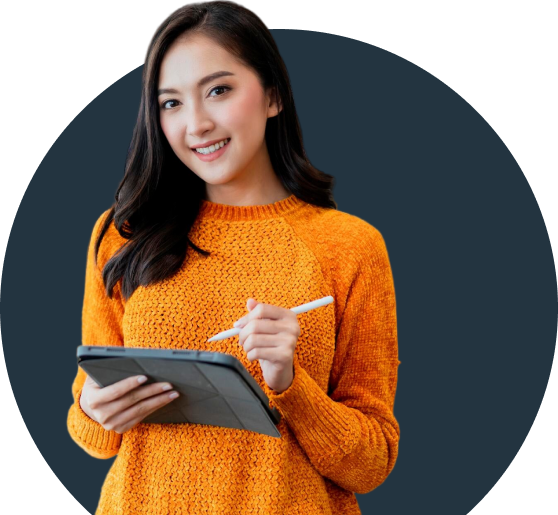
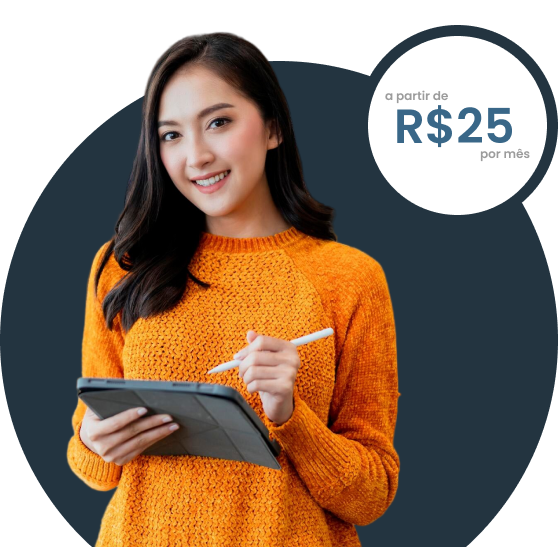
Vai

diff --git a/src/pages/index.tsx b/src/pages/index.tsx
@@ -12,11 +12,16 @@ import { BenefitItem } from "@/components/BenefitItem";
 import { LuMoveRight } from "react-icons/lu";
 import { FiPhone } from "react-icons/fi";
 import { ContactItem } from "@/components/ContactItem";
-import { MdOutlineEmail } from "react-icons/md";
+import { MdAttachMoney, MdOutlineEmail } from "react-icons/md";
 import { Subtitle } from "@/components/Subtitle";
 import { FaRegUser } from "react-icons/fa";
 import { FiTrendingUp } from "react-icons/fi";
 import { PiHandCoins  } from "react-icons/pi";
+import { TbShoppingCart } from "react-icons/tb";
+import { BsBoxSeam, BsGraphUpArrow, BsTags } from "react-icons/bs";
+import { VscTools } from "react-icons/vsc";
+import { GoGear, GoStack } from "react-icons/go";
+import Link from "next/link";
 
 const poppins = Poppins({
   subsets: ['latin'],
@@ -61,56 +66,60 @@ export default function Home() {
         <MainWrapper>
           <SideImage
             title="Servidores ultra-seguros e confiáveis"
-            description="Garantindo a Estabilidade e Proteção do seu Negócio."
+            description="Com servidores ultra-seguros e confiáveis na nuvem, fornecidos pela AWS Amazon, nossa plataforma white label de software SaaS oferece uma infraestrutura sólida para seu negócio. A segurança de nossos servidores protege os dados com padrões avançados, fornecendo criptografia, backups regulares e monitoramento constante. Isso garante a integridade e disponibilidade contínua dos seus serviços, mantendo a confiança de seus clientes. Ao adotar nossa solução, você obtém a tranquilidade necessária para se concentrar no crescimento, enquanto nós lidamos com a segurança e a confiabilidade."
             imgName="bg-img-database"
             alt="" />
           <SideImage
             title="Amplamente aprovado por nossos clientes"
             imgName="bg-img-clientes"
-            description="Mais de 10 mil empresas confiam no ESAAS para impulsionar seu sucesso!"
+            description="O eSaaS é um braço da VendaERP, empresa pioneira no fornecimento de software SaaS no Brasil. Com atuação no mercado desde 2017, a VendaERP construiu uma sólida reputação, atendendo mais de 2.000 parceiros ativos. Nosso compromisso com a excelência reflete-se na ótima avaliação no Reclame Aqui, reforçando nossa dedicação à satisfação e segurança dos clientes. Ao escolher nossa plataforma, você se beneficia de uma infraestrutura confiável e uma equipe experiente, garantindo a tranquilidade necessária para impulsionar seu sucesso. "
             alt=""
             invert={true} />
           <SideImage
             title="Sua marca, sua identidade"
-            description="Tenha um sistema de gestão completo com a identidade da sua marca, sem se preocupar com o desenvolvimento ou manutenção!"
+            description="Ao vender software SaaS com a sua marca, você fortalece a presença e o reconhecimento de sua empresa no mercado. Oferecer soluções white label permite que você personalize completamente a experiência, adaptando cores, logotipo e mensagens ao perfil do seu público. Essa flexibilidade proporciona um diferencial competitivo, promovendo um relacionamento mais próximo e confiável com seus clientes. Além disso, a identidade própria aumenta o valor percebido, gerando maior fidelidade e facilitando a expansão da sua base de clientes. Com nossa solução, você pode construir um negócio único e altamente reconhecível."
             imgName="bg-img-erp"
             alt="" />
         </MainWrapper>
 
-        <div id="funcionalidades" className="w-full h-[800px] bg-main-secondary-800 pt-20">
+        <div id="funcionalidades" className="w-full h-[1100px] bg-main-secondary-800 pt-20">
           <MainWrapper>
             <Subtitle color="text-white" text="Conheça noossas principais funcionalidades" />
             <div className="w-full flex justify-center">
-              <div className="flex flex-col max-w-[700px] w-full gap-2">
-                <Card2 title="Cadastros Básicos" />
-                <Card2 title="Compras - Notas de Entrada, Cotações e Ordens de Compras" />
-                <Card2 title="Estoque - Cadastro de Produtos/Serviços, Movimentações e Outros" />
-                <Card2 title="Financeiro Avançado" />
-                <Card2 title="Financeiro Básico" />
-                <Card2 title="Vendas - Pedidos/Orçamentos e Ordens de Serviço" />
-                <Card2 title="PDV - Frente de Caixa" />
-                <Card2 title="Nota Fiscal Eletrônica" />
+              <div className="grid grid-cols-2 gap-5 max-w-[800px] w-full">
+                <Card2 title="Fiscal" icon={<BsTags />} description="Emissão de NF-e, NFS-e, MDF-e, NFC-e, CF-e SAT. E também temos SPED Fiscal!" />
+                <Card2 title="Vendas" icon={<BsGraphUpArrow />} description="Orçamentos e pedidos, marketplaces, PDV, Loja Online, Força de vendas." />
+                <Card2 title="Compras" icon={<TbShoppingCart />} description="Ordem de compra, nota de entrada, alerta de estoque, leilão fornecedores."/>
+                <Card2 title="Estoque" icon={<BsBoxSeam />} description="Gestão de múltiplos depósitos, tabelas de preço, movimentações, catálogo."/>
+                <Card2 title="Financeiro" icon={<MdAttachMoney  />} description="Lançamentos financeiros, cobranças integradas, remessas, boletos, bancos!"/>
+                <Card2 title="Produção" icon={<GoGear />} description="Ordens de produção, estoque, insumos e matéria-prima, gestão de qualidade."/>
+                <Card2 title="Logística" icon={<VscTools />} description="Movimentações de estoque, SIGEP Web, relatórios, veículos, delivery integrado." />
+                <Card2 title="Serviços" icon={<GoStack />} description="Emissão de NFS-e, gestão de contratos, ordens de serviços, técnicos, frotas."/>
               </div>
             </div>
-
           </MainWrapper>
         </div>
 
-        <div id="preco" className="w-full h-[900px] bg-main-primary-500 pt-20">
+        <div id="preco" className="w-full h-[1000px] bg-gradient-price pt-20">
           <MainWrapper>
             <Subtitle color="text-white" text="Uma solução que cabe no seu bolso" />
             <div className="w-full flex justify-center ">
-              <div className="shadow-card rounded-xl px-8 py-10 max-w-[600px] w-full bg-white">
+              <div className="shadow-card rounded-3xl px-8 py-10 max-w-[600px] w-full bg-white">
                 <h3 className="text-4xl font-semibold text-center">Licença Mensal</h3>
                 <p className="text-center text-zinc-600">Por apenas <span className="text-main-primary-500 text-2xl font-semibold">R$ 25,00</span>/mês</p>
                 <div className="relative flex py-3 items-center">
                   <div className="flex-grow border-t border-zync-300"></div>
                 </div>
-                <BenefitItem title="ERP Completo" description="Tenha acesso a todas as funcionalidades do ESAAS para gerenciar seu negócio de forma eficiente." />
-                <BenefitItem title="Painel de Licenças" description="Controle e gerencie suas licenças de forma centralizada e intuitiva." />
-                <BenefitItem title="Hospedagem Segura" description="Mantenha seus dados protegidos em servidores seguros e confiáveis." />
-                <BenefitItem title="Treinamentos Inclusos" description="Capacite sua equipe com treinamentos especializados para tirar o máximo proveito da plataforma." />
-                <BenefitItem title="Suporte Especializado" description="Conte com suporte técnico especializado durante o horário comercial para resolver suas dúvidas e questões." />
+                <BenefitItem title="Software ERP SaaS Completo">Desfrute de todas as funcionalidades oferecidas pelo ESAAS, personalizando a interface com o nome e as cores da sua marca para um produto único que pode ser revendido facilmente.</BenefitItem>
+                <BenefitItem title="Painel de Licenças">Gerencie e monitore suas licenças de maneira simplificada, centralizando o controle de todas as licenças vendidas em um painel intuitivo.</BenefitItem>
+                <BenefitItem title="Servidores na Nuvem Seguros e Reconhecidos">Armazene seus dados com segurança em servidores robustos e reconhecidos, garantindo proteção e confiabilidade para suas operações na nuvem.</BenefitItem>
+                <BenefitItem title="Treinamentos Inclusos">
+                  Participe do nosso canal no Discord para acessar treinamentos personalizados que potencializam a produtividade e o domínio das funcionalidades do ESAAS. 
+                  <Link className="text-black underline px-1" href="https://discord.gg/">Acesse nosso Discord</Link>
+                </BenefitItem>
+                <BenefitItem title="Suporte Especializado">Conte com suporte humanizado e altamente especializado, oferecido diretamente no Discord para atender todas as suas necessidades técnicas e estratégicas. 
+                <Link className="text-black underline px-1" href="https://discord.gg/">Acesse nosso Discord</Link>
+                </BenefitItem>
                 <div className="w-full flex justify-center mt-7">
                   <MainButton2 />
                 </div>
@@ -140,7 +149,7 @@ export default function Home() {
                       <span className="bg-main-secondary-800 px-4 text-sm text-gray-500">ou</span>
                     </div>
                   </div>
-                  <ContactItem icon={<MdOutlineEmail />} title="Email" contact="contato@esaas.com" description="Ficou com alguma dúvida? Entre em contato com a gente pelo nosso email." />
+                  <ContactItem icon={<MdOutlineEmail />} title="Email" contact="comercial@esaas.com.br" description="Ficou com alguma dúvida? Entre em contato com a gente pelo nosso email." />
                 </div>
               </div>
             </div>

diff --git a/src/components/Card2.tsx b/src/components/Card2.tsx
@@ -3,13 +3,19 @@ import { LuCheckCircle } from "react-icons/lu";
 
 export interface ICard2Props {
     title: string;
+    icon: React.ReactNode;
+    description: string;
 }
 
 export function Card2(props: ICard2Props) {
     return (
-        <div className="flex items-center select-none justify-between bg-white px-6 py-4 rounded-xl transition-all duration-300 hover:scale-105">
-            <h3 className='text-base text-black'>{props.title}</h3>
-            <LuCheckCircle className='text-lg'/>
+        <div className="flex flex-col items-left select-none bg-transparent border border-gray-700 px-6 py-4 rounded-xl transition-all duration-300 hover:scale-105">
+            <div className='text-4xl text-main-primary-500 mb-3'>
+                {props.icon}
+            </div>
+            <h3 className='text-lg text-gray-100 font-semibold uppercase'>{props.title}</h3>
+            <p className='text-sm text-gray-300'>{props.description}</p>
+            <p className='mt-3 text-sm text-gray-400'><span className='font-semibold text-main-primary-500'>R$ 0,00</span> (incluso na licença)</p>
         </div>
     );
 }

diff --git a/src/pages/_document.tsx b/src/pages/_document.tsx
@@ -3,7 +3,14 @@ import { Html, Head, Main, NextScript } from "next/document";
 export default function Document() {
   return (
     <Html lang="pt-BR" style={{scrollBehavior:'smooth'}}>
-      <Head />
+      <Head>
+        <title>ESAAS - Transforme Seu Negócio com o ESAAS</title>
+        <meta name="description" content="Transforme Seu Negócio com o ESAAS - Oferecemos uma Abordagem Prática e Eficiente para Gerenciar seu Negócio, Permitindo que Você Se Concentre no que Realmente Importa: Seu Sucesso!" />
+        <meta name="keywords" content="ESAAS, Software as a Service, Gestão de Negócios, ERP, SaaS, Solução de Gestão, Economia, Flexibilidade, Escalabilidade, Segurança, AWS Amazon, VendaERP, Servidores na Nuvem, Identidade de Marca, Funcionalidades, Licença Mensal, Treinamentos, Suporte Especializado, Contato" />
+        <meta name="author" content="Seu Nome ou Nome da Empresa" />
+        <meta name="robots" content="index, follow" />
+        <meta http-equiv="X-UA-Compatible" content="ie=edge" />
+      </Head>
       <body>
         <Main />
         <NextScript />

diff --git a/src/components/MainButton.tsx b/src/components/MainButton.tsx
@@ -1,11 +1,16 @@
 import Link from 'next/link';
 import * as React from 'react';
+import { FaWhatsapp } from "react-icons/fa";
 
 export interface IMainButtonProps {
 }
 
 export function MainButton (props: IMainButtonProps) {
   return (
-    <Link href={"https://wa.me/15551234567"} className='w-[160px] select-none font-semibold flex justify-center text-main-primary-500 px-3 py-2 border-2 border-main-primary-500 rounded-full opacity-1 hover:opacity-70 transition-all duration-300'>Conheça agora</Link>
+    <Link href={"https://wa.me/15551234567"} className='w-[160px] select-none font-semibold flex justify-center items-center gap-1 bg-green-600 text-white px-3 py-2 rounded-full opacity-1 hover:opacity-70 transition-all duration-300'>
+      
+      Conheça
+      <FaWhatsapp/>
+    </Link>
   );
 }

diff --git a/src/components/MainButton2.tsx b/src/components/MainButton2.tsx
@@ -1,11 +1,15 @@
 import Link from 'next/link';
 import * as React from 'react';
+import { FaWhatsapp } from "react-icons/fa";
 
 export interface IMainButton2Props {
 }
 
 export function MainButton2 (props: IMainButton2Props) {
   return (
-    <Link href={"https://wa.me/15551234567"} className='w-[160px] select-none flex justify-center bg-main-primary-500 text-white px-3 py-2 rounded-full opacity-1 hover:opacity-70 transition-all duration-300'>Conheça agora</Link>
+    <Link href={"https://wa.me/15551234567"} className='w-[160px] select-none font-semibold flex justify-center items-center gap-1 text-green-600 px-3 py-2 border-2 border-green-600 rounded-full opacity-1 hover:opacity-70 transition-all duration-300'>
+      Conheça
+      <FaWhatsapp/>
+      </Link>
   );
 }

diff --git a/src/components/BenefitItem.tsx b/src/components/BenefitItem.tsx
@@ -3,14 +3,14 @@ import { BsCheckLg } from "react-icons/bs";
 
 export interface IBenefitItemProps {
     title: string;
-    description: string;
+    children: React.ReactNode;
 }
 
 export function BenefitItem (props: IBenefitItemProps) {
   return (
     <div className='mt-5'>
         <p className='font-semibold text-sm'><BsCheckLg className='inline mr-1'/>{props.title}</p>
-        <p className='text-sm text-zinc-700'>{props.description}</p>
+        <p className='text-sm text-zinc-700 text-justify'>{props.children}</p>
     </div>
   );
 }

diff --git a/src/components/Header.tsx b/src/components/Header.tsx
@@ -14,7 +14,7 @@ export function Header (props: IHeaderProps) {
         <MainWrapper>
             <div className='flex justify-between h-full'>
                 <div className='h-full flex items-center'>
-                    <Image src='/images/logo.png' alt='Logo' width={41} height={57} />
+                    <Image src='/images/logo.png' alt='Logo' width={121} height={57} />
                 </div>
                 <div className='h-full flex items-center gap-8'>
                     <HeaderLink href="#inicio" text='Início'/>

diff --git a/src/components/Footer.tsx b/src/components/Footer.tsx
@@ -12,7 +12,7 @@ export function Footer(props: IFooterProps) {
         <div className='w-full py-8 flex flex-col items-center gap-4'>
           <Image src='/images/logo2.png' alt='Logo' width={73} height={80} />
           <div className='border rounded-lg px-5 py-2'>
-            <p className='text-main-primary-500'>contato@esaas.com</p>
+            <p className='text-main-primary-500'>comercial@esaas.com.br</p>
           </div>
           <p>©Todos os direitos reservados.</p>
         </div>

diff --git a/tailwind.config.ts b/tailwind.config.ts
@@ -10,8 +10,7 @@ const config: Config = {
     extend: {
       backgroundImage: {
         "gradient-radial": "radial-gradient(at top,#F0F3F7,#F0F3F7,#ffffff,#ffffff)",
-        "gradient-conic":
-          "conic-gradient(from 180deg at 50% 50%, var(--tw-gradient-stops))",
+        "gradient-price": "linear-gradient(180deg, #4da6d7, #0a76bf)",
 
         "img-database": "url('/images/database.png')",
         "img-clientes": "url('/images/clientes.png')",
